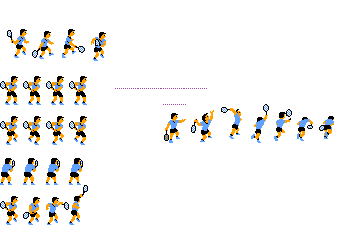
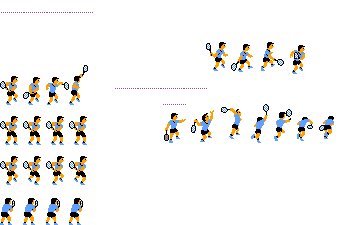
플레이어 Swing 클래스 구현

diff --git a/player.py b/player.py
@@ -17,10 +17,19 @@ ACTION_PER_TIME = 1.0 / TIME_PER_ACTION
 FRAMES_PER_ACTION = 4
 FRAMES_PER_TIME = ACTION_PER_TIME * FRAMES_PER_ACTION
 
-actions = {'Idle': 1, 'Run': 2, 'Stand': 3}
 COURT_WIDTH = 1000
 COURT_HEIGHT = 950
 
+actions = {'Idle': 0, 'Run': 1, 'Stand': 2, 'Swing': 3}
+
+
+def player_composite_draw(player):
+    player.image.clip_composite_draw(
+        int(player.frame) * 23, player.action * 40, 23, 40, 0, 'h', player.x, player.y, 23 * 4, 40 * 4 )
+
+def player_draw(player):
+    player.image.clip_draw(
+        int(player.frame) * 23, player.action * 40, 23, 40, player.x, player.y, 23 * 4, 40 * 4)
 
 class Idle:
     @staticmethod
@@ -41,16 +50,36 @@ class Idle:
         if player.action == actions['Idle']:
             if player.x > COURT_WIDTH // 2:
                 player.image.clip_composite_draw(int(player.frame) * 23, player.action * 40, 23, 40, 0, 'h',
-                                                 player.x, player.y, 23 * 4, 40 * 4 + 15)
+                                                 player.x, player.y, 23 * 4, 40 * 4 + 17)
             else:
                 player.image.clip_draw(int(player.frame) * 23, player.action * 40, 23, 40,
-                                       player.x, player.y, 23 * 4, 40 * 4 + 15)
-        elif player.face_dir == 'Left':
-            player.image.clip_composite_draw(int(player.frame) * 23, player.action * 40, 23, 40, 0, 'h',
-                                             player.x, player.y, 23 * 4, 40 * 4)
-        else:
-            player.image.clip_draw(int(player.frame) * 23, player.action * 40, 23, 40,
-                                   player.x, player.y, 23 * 4, 40 * 4)
+                                       player.x, player.y, 23 * 4, 40 * 4 + 17)
+        elif player.face_dir == 'Left': player_composite_draw(player)
+        else: player_draw(player)
+
+
+class Swing:
+    @staticmethod
+    def enter(player, e):
+        player.frame = 0
+        player.action = actions['Swing']
+
+    @staticmethod
+    def exit(player, e):
+        if player.x > COURT_WIDTH // 2 and player.swing_dir == 'Right': return
+        elif player.x <= COURT_WIDTH // 2 and player.swing_dir == 'Left': return
+        player.face_dir = 'Middle'
+
+    @staticmethod
+    def do(player):
+        if player.frame + FRAMES_PER_TIME * game_framework.frame_time >= 4:
+            player.state_machine.handle_event(('TIME_OUT', None))
+        player.frame = (player.frame + FRAMES_PER_TIME * game_framework.frame_time) % 4
+
+    @staticmethod
+    def draw(player):
+        if player.swing_dir == 'Left': player_composite_draw(player)
+        else: player_draw(player)
 
 
 class RunX:
@@ -61,9 +90,11 @@ class RunX:
         if right_down(e) or left_up(e):
             player.xdir = 1
             player.face_dir = 'Right'
+            player.swing_dir = 'Right'
         elif left_down(e) or right_up(e):
             player.xdir = -1
             player.face_dir = 'Left'
+            player.swing_dir = 'Left'
 
     @staticmethod
     def exit(player, e):
@@ -76,12 +107,8 @@ class RunX:
 
     @staticmethod
     def draw(player):
-        if player.face_dir == 'Right':
-            player.image.clip_draw(int(player.frame) * 23, player.action * 40, 23, 40,
-                                   player.x, player.y, 23 * 4, 40 * 4)
-        elif player.face_dir == 'Left':
-            player.image.clip_composite_draw(int(player.frame) * 23, player.action * 40, 23, 40, 0, 'h',
-                                             player.x, player.y, 23 * 4, 40 * 4)
+        if player.face_dir == 'Right': player_draw(player)
+        elif player.face_dir == 'Left': player_composite_draw(player)
 
 
 class RunY:
@@ -108,12 +135,8 @@ class RunY:
 
     @staticmethod
     def draw(player):
-        if player.face_dir == 'Right':
-            player.image.clip_draw(int(player.frame) * 23, player.action * 40, 23, 40,
-                                   player.x, player.y, 23 * 4, 40 * 4)
-        elif player.face_dir == 'Left':
-            player.image.clip_composite_draw(int(player.frame) * 23, player.action * 40, 23, 40, 0, 'h',
-                                             player.x, player.y, 23 * 4, 40 * 4)
+        if player.face_dir == 'Right': player_draw(player)
+        elif player.face_dir == 'Left': player_composite_draw(player)
 
 
 class RunXY:
@@ -124,9 +147,11 @@ class RunXY:
         if right_down(e) or left_up(e):
             player.xdir = 1
             player.face_dir = 'Right'
+            player.swing_dir = 'Right'
         elif left_down(e) or right_up(e):
             player.xdir = -1
             player.face_dir = 'Left'
+            player.swing_dir = 'Left'
 
         if up_down(e) or down_up(e): player.ydir = 1
         elif down_down(e) or up_up(e): player.ydir = -1
@@ -143,12 +168,8 @@ class RunXY:
 
     @staticmethod
     def draw(player):
-        if player.face_dir == 'Right':
-            player.image.clip_draw(int(player.frame) * 23, player.action * 40, 23, 40,
-                                   player.x, player.y, 23 * 4, 40 * 4)
-        elif player.face_dir == 'Left':
-            player.image.clip_composite_draw(int(player.frame) * 23, player.action * 40, 23, 40, 0, 'h',
-                                             player.x, player.y, 23 * 4, 40 * 4)
+        if player.face_dir == 'Right': player_draw(player)
+        elif player.face_dir == 'Left': player_composite_draw(player)
 
 
 class StateMachine:
@@ -157,13 +178,14 @@ class StateMachine:
         self.cur_state = Idle
         self.transitions = {
             Idle: {right_down: RunX, left_down: RunX, left_up: RunX, right_up: RunX,
-                   up_down: RunY, down_down: RunY, up_up: RunY, down_up: RunY},
+                   up_down: RunY, down_down: RunY, up_up: RunY, down_up: RunY, space_down: Swing},
             RunX: {right_down: Idle, left_down: Idle, right_up: Idle, left_up: Idle,
                    up_down: RunXY, down_down: RunXY, up_up: RunXY, down_up: RunXY},
             RunY: {right_down: RunXY, left_down: RunXY, right_up: RunXY, left_up: RunXY,
                    up_down: Idle, down_down: Idle, up_up: Idle, down_up: Idle},
             RunXY: {right_down: RunY, left_down: RunY, right_up: RunY, left_up: RunY,
-                    up_down: RunX, down_down: RunX, up_up: RunX, down_up: RunX}
+                    up_down: RunX, down_down: RunX, up_up: RunX, down_up: RunX},
+            Swing: {time_out: Idle}
         }
 
     def start(self):
@@ -191,6 +213,7 @@ class Player:
         self.frame = 0
         self.action = 0
         self.face_dir = 'Middle'
+        self.swing_dir = 'Right'
         self.xdir, ydir = 0, 0
         self.image = load_image('resource\\tennis_player.png')
         self.state_machine = StateMachine(self)

diff --git a/ball.py b/ball.py
@@ -17,12 +17,15 @@ class Ball:
     def __init__(self):
         self.x, self.y = 500, 0
         self.frame = 0
-        self.xdir, self.ydir = 0, 0.5
+        self.xdir, self.ydir = 0, 1.0
         self.image = load_image('resource\\tennis_ball.png')
 
     def update(self):
         self.frame = (self.frame + FRAMES_PER_TIME * game_framework.frame_time * 0.25) % 6
         self.y += self.ydir * RUN_SPEED_PPS * game_framework.frame_time
+
+        if self.y >= 950: self.ydir = -1.0
+        elif self.y <= 0: self.ydir = 1.0
 
     def draw(self):
         self.image.clip_draw(int(self.frame) * 7, 0, 7, 8, self.x, self.y, 50, 50)

diff --git a/event_check.py b/event_check.py
@@ -39,3 +39,7 @@ def space_down(e):
 
 def space_up(e):
     return e[0] == 'INPUT' and e[1].type == SDL_KEYUP and e[1].key == SDLK_SPACE
+
+
+def time_out(e):
+    return e[0] == 'TIME_OUT'
